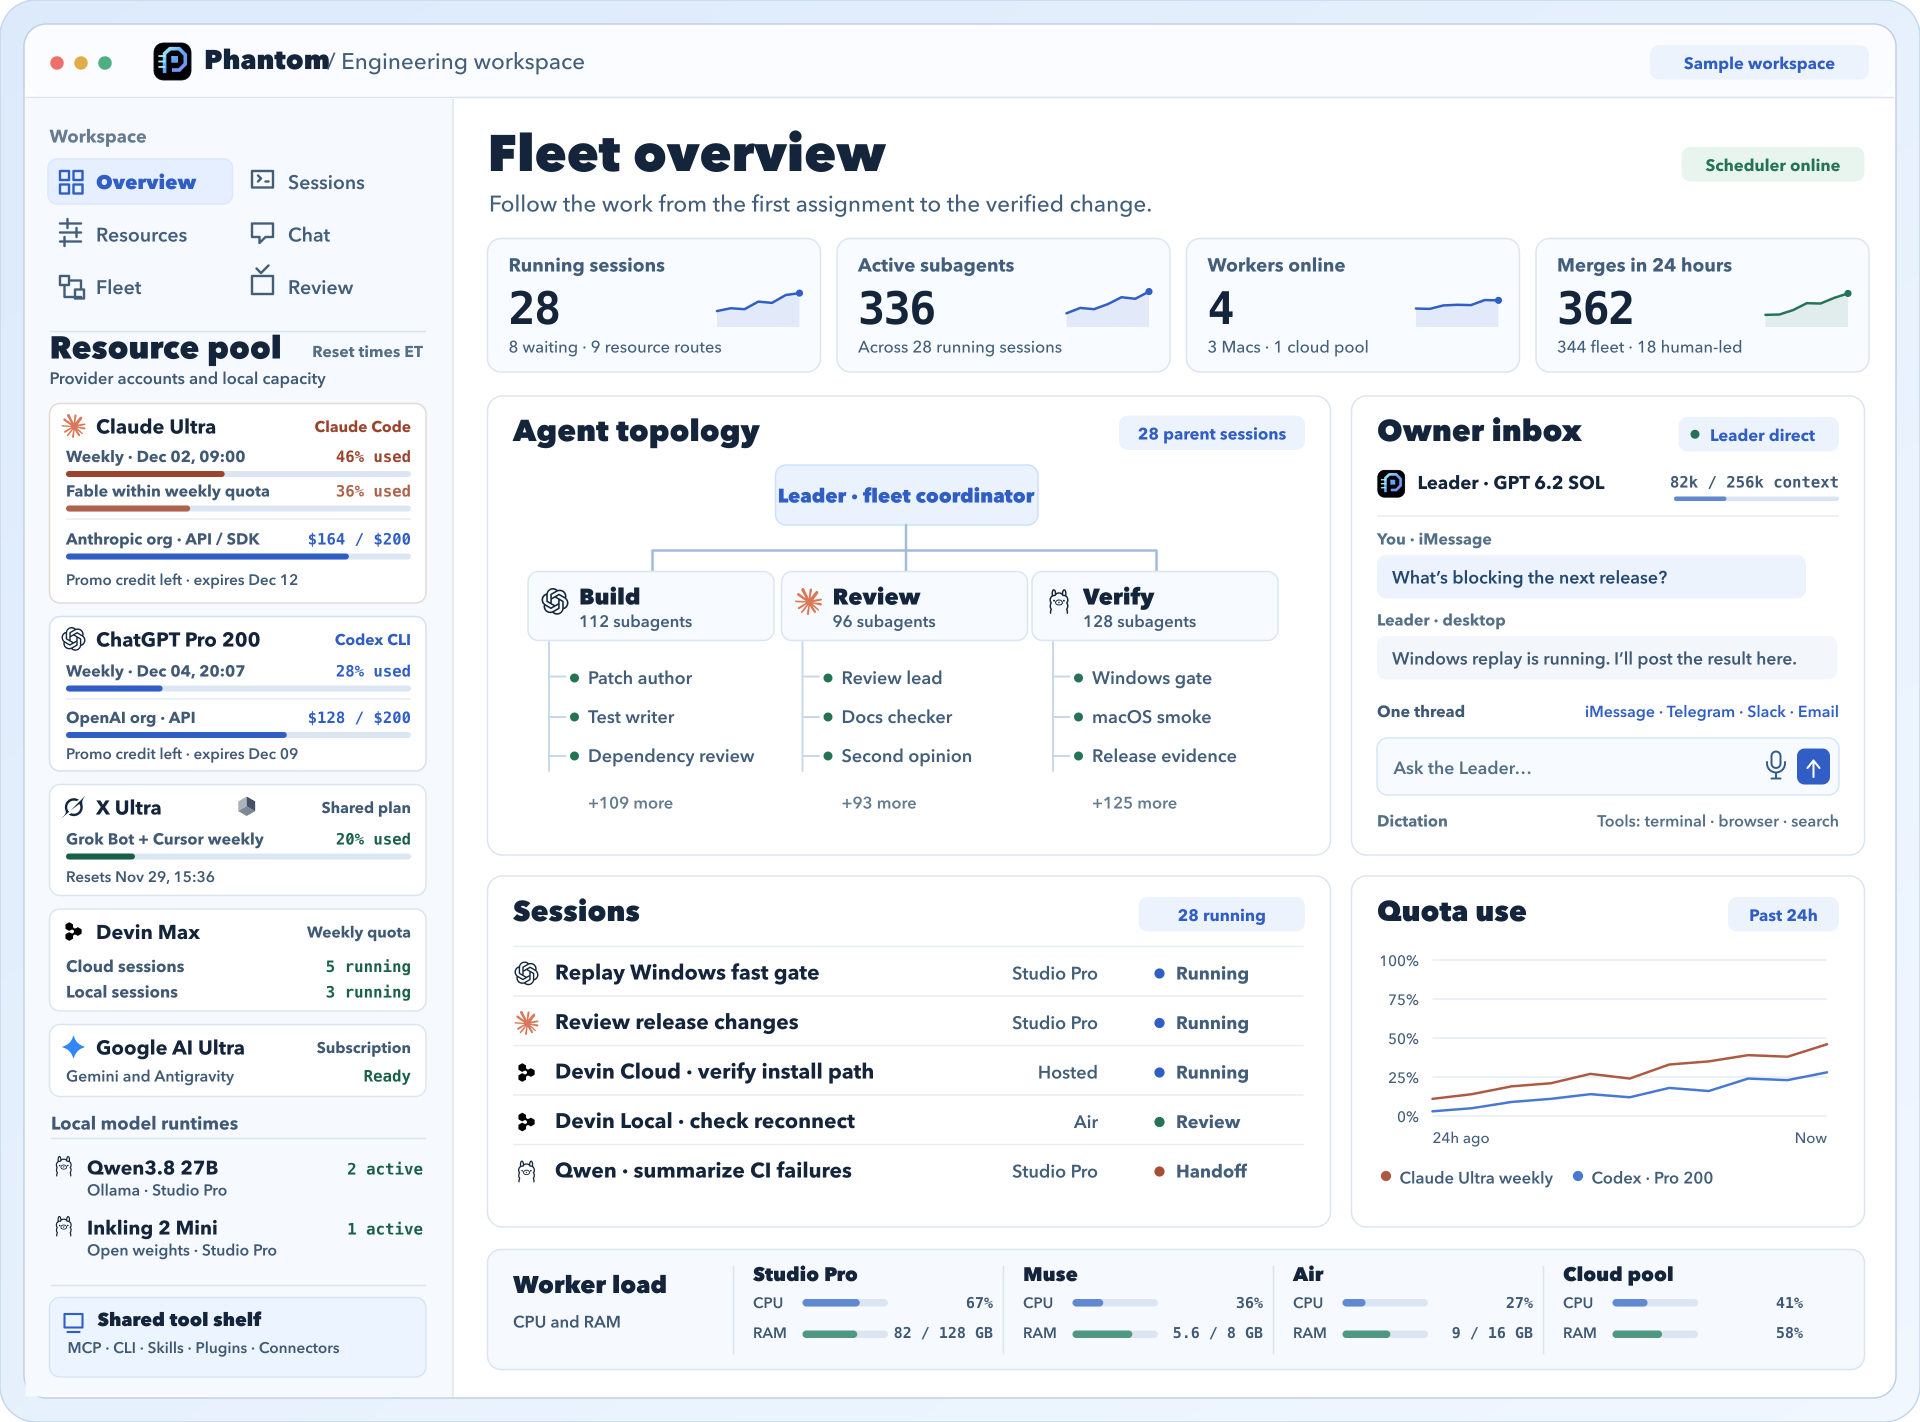
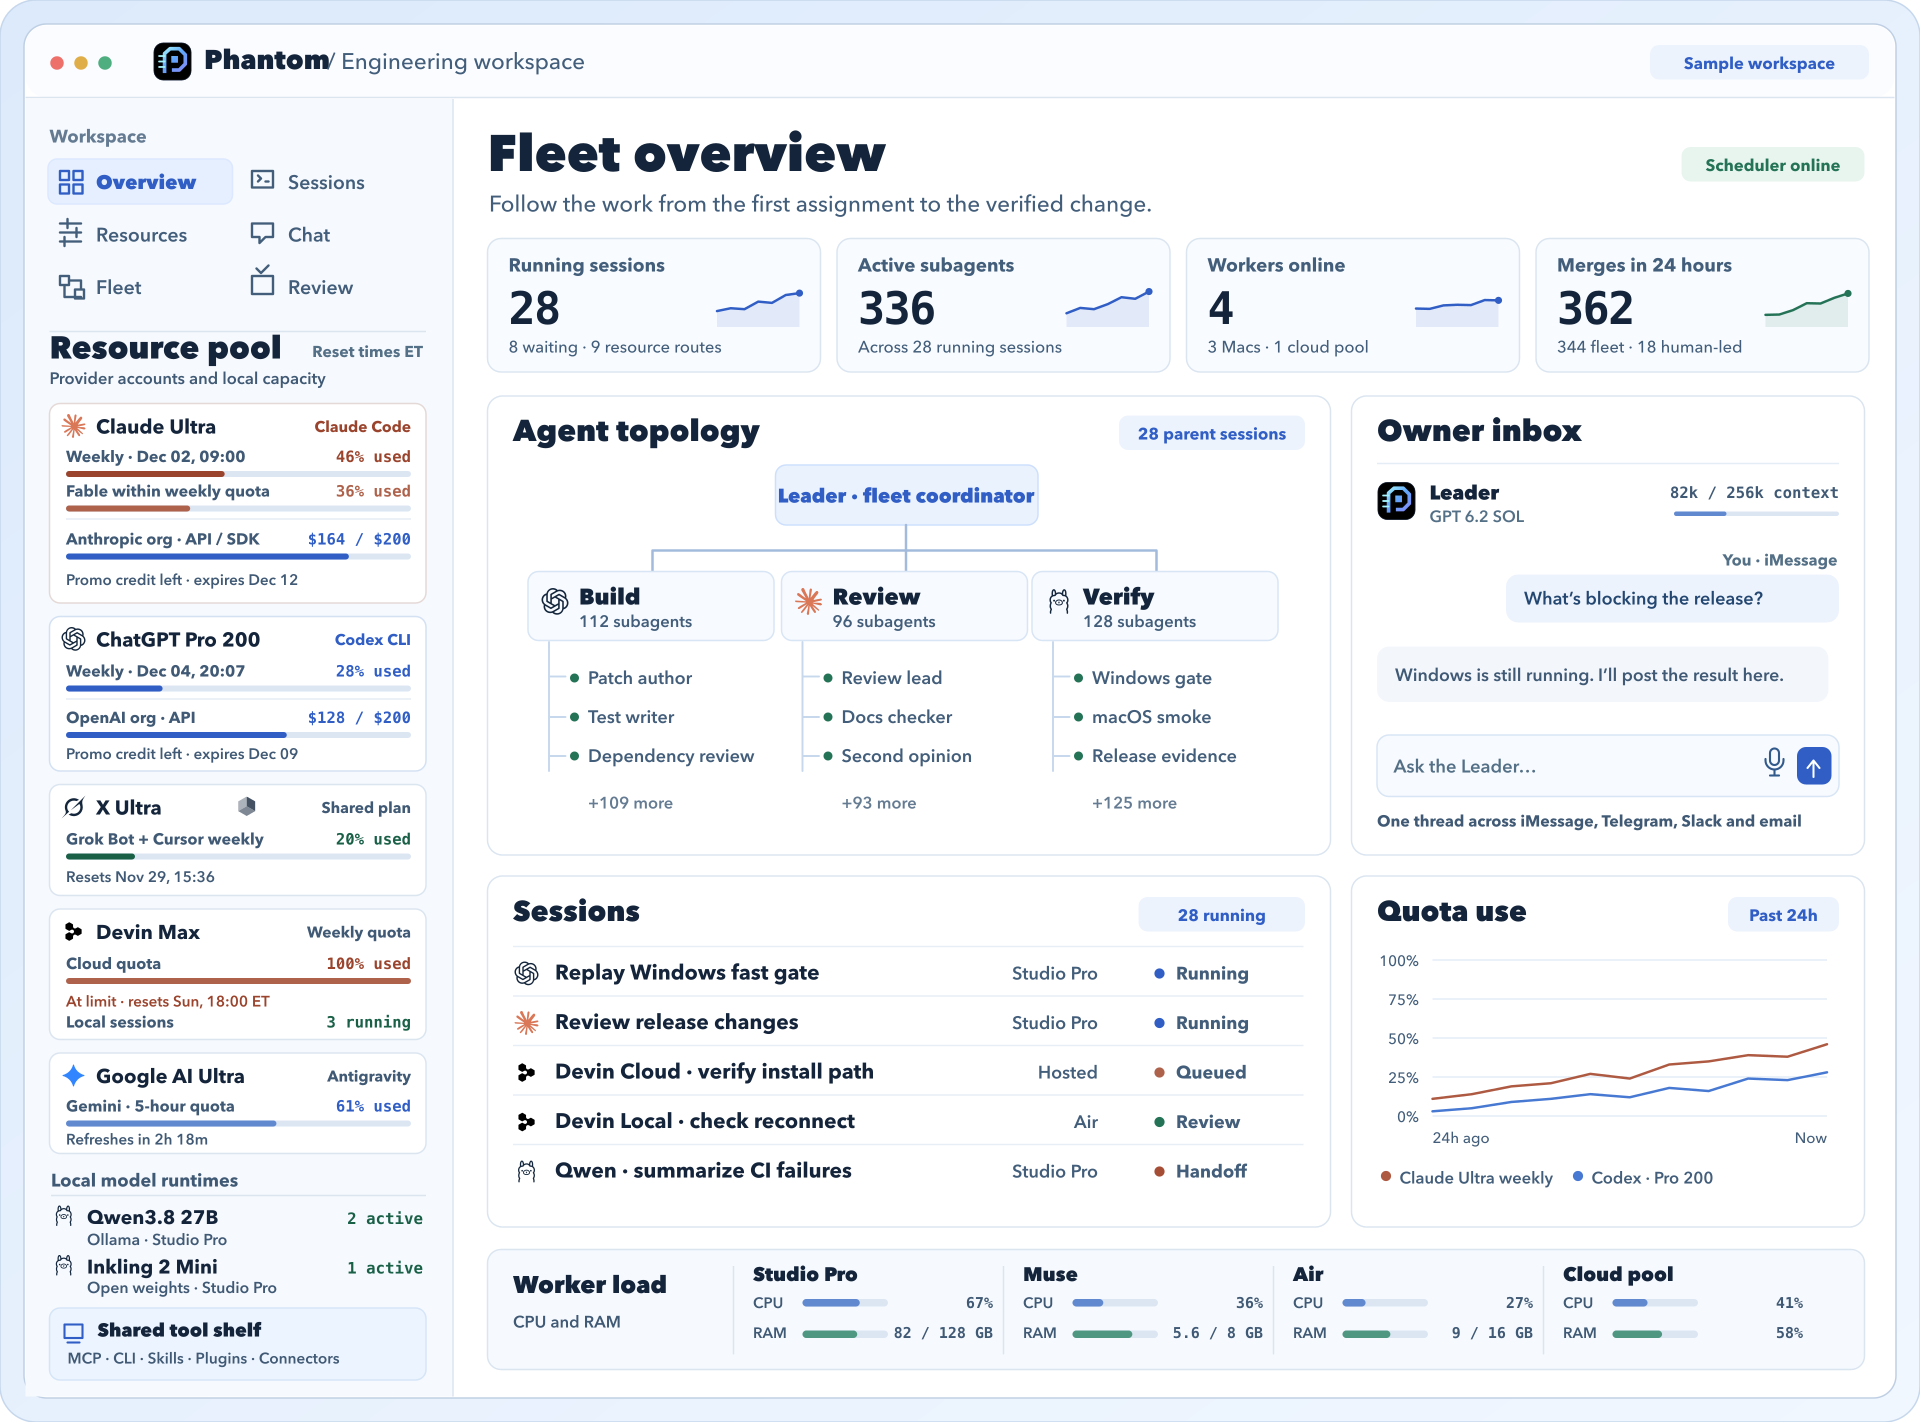
docs: show provider quota windows and a simpler owner inbox (#10702)

diff --git a/test/readme-brand.test.ts b/test/readme-brand.test.ts
@@ -65,6 +65,7 @@ describe('README top-half brand contract', () => {
     expect(readme).toContain('Phantom Fleet overview with sample data.');
     expect(readme).toContain('362 merges in 24 hours');
     expect(readme).toContain('Leader inbox with dictation');
+    expect(readme).toContain('separate Devin Cloud and Local rows');
     expect(readme).toContain('[See the current Fleet capture with demo data](docs/images/phantom-fleet-demo.png)');
     const png = readFileSync(join(ROOT, path));
     expect(png.subarray(1, 4).toString()).toBe('PNG');

diff --git a/docs/images/CAPTURES.md b/docs/images/CAPTURES.md
@@ -2,7 +2,7 @@
 
 ## Fleet overview illustration
 
-[Phantom Fleet overview](phantom-fleet-overview.png) is the 1920 × 1422 editorial PNG also used on the [AshlrAI organization profile](https://github.com/ashlrai). It is a product illustration, not a capture from a running build. Provider balances and throughput are synthetic: 362 merges in 24 hours, 28 running sessions, and 336 active subagents. Provider cards show separate subscription quotas and organization credits, not measured balances. Each worker shows separate CPU and RAM, and the tool shelf illustrates shared discovery without shared credentials. The single owner inbox depicts a cross-channel Leader thread, a microphone for dictation, and illustrative model and context indicators. The source asset is the [approved organization-profile PNG](https://github.com/ashlrai/.github/blob/5aa0826d5a2c0bb44df56ea2ad950d607668665b/profile/assets/portable/phantom-fleet-overview.png). The three browser captures below remain available for comparison.
+[Phantom Fleet overview](phantom-fleet-overview.png) is the 1920 × 1422 editorial PNG also used on the [AshlrAI organization profile](https://github.com/ashlrai). It is a product illustration, not a capture from a running build. Provider balances and throughput are synthetic: 362 merges in 24 hours, 28 running sessions, and 336 active subagents. Provider cards show separate subscription quotas and organization credits, not measured balances. The Google card shows a five-hour Antigravity window; Devin Cloud uses a quota percentage and Devin Local a session count. Each worker shows separate CPU and RAM, and the tool shelf illustrates shared discovery without shared credentials. The single owner inbox depicts a cross-channel Leader thread, a microphone for dictation, and illustrative model and context indicators. The source asset is the [approved organization-profile PNG](https://github.com/ashlrai/.github/blob/c4dd5bf8317febe5463158d335083dd134565326/profile/assets/portable/phantom-fleet-overview.png). The three browser captures below remain available for comparison.
 
 ## Current-source browser captures
 

diff --git a/README.md b/README.md
@@ -20,7 +20,7 @@ Chasing open-source RSI (recursive self-improvement) is Phantom's mission. We're
 
 Agents run the factory; the human owner acts as a passive board member. Agents pick work, open pull requests, merge them and ship releases through the sanctioned workflow. The owner sets direction and is needed only for passwords, 2FA, device approvals and payments. See [how agents work on Phantom](#how-agents-work-on-phantom).
 
-[![Phantom Fleet overview with resource balances, 28 running sessions, 336 active subagents, 362 merges in 24 hours, a Leader inbox with dictation, model and context indicators, a shared tool shelf, and CPU and RAM on every worker.](docs/images/phantom-fleet-overview.png)](docs/images/phantom-fleet-overview.png)
+[![Phantom Fleet overview with resource balances, 28 running sessions, 336 active subagents, 362 merges in 24 hours, Google’s five-hour quota, separate Devin Cloud and Local rows, a Leader inbox with dictation, a shared tool shelf, and per-worker CPU and RAM.](docs/images/phantom-fleet-overview.png)](docs/images/phantom-fleet-overview.png)
 
 *Phantom Fleet overview with sample data. Balances, counts, trends, and inbox controls are illustrative, not measured performance or feature availability. [See the current Fleet capture with demo data](docs/images/phantom-fleet-demo.png) or [read the visual notes](docs/images/CAPTURES.md).*
 
